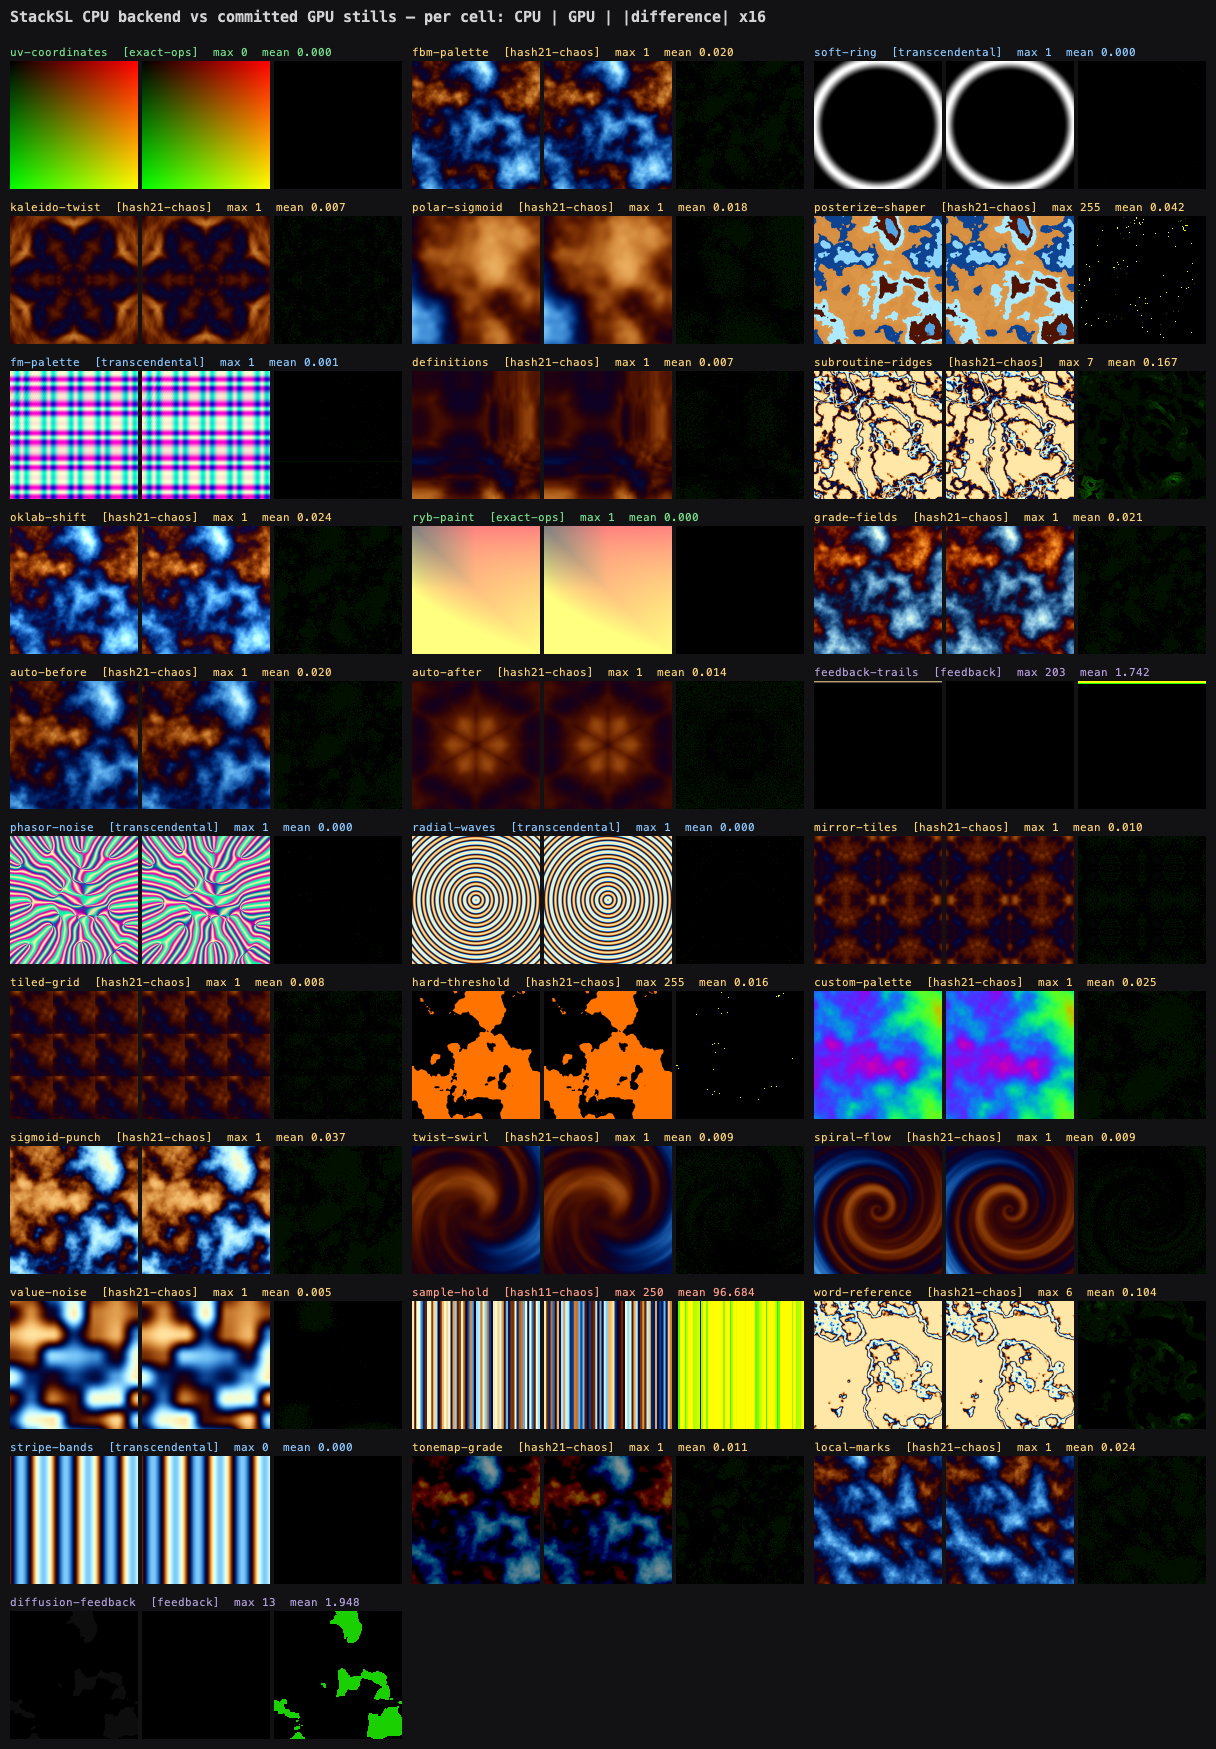
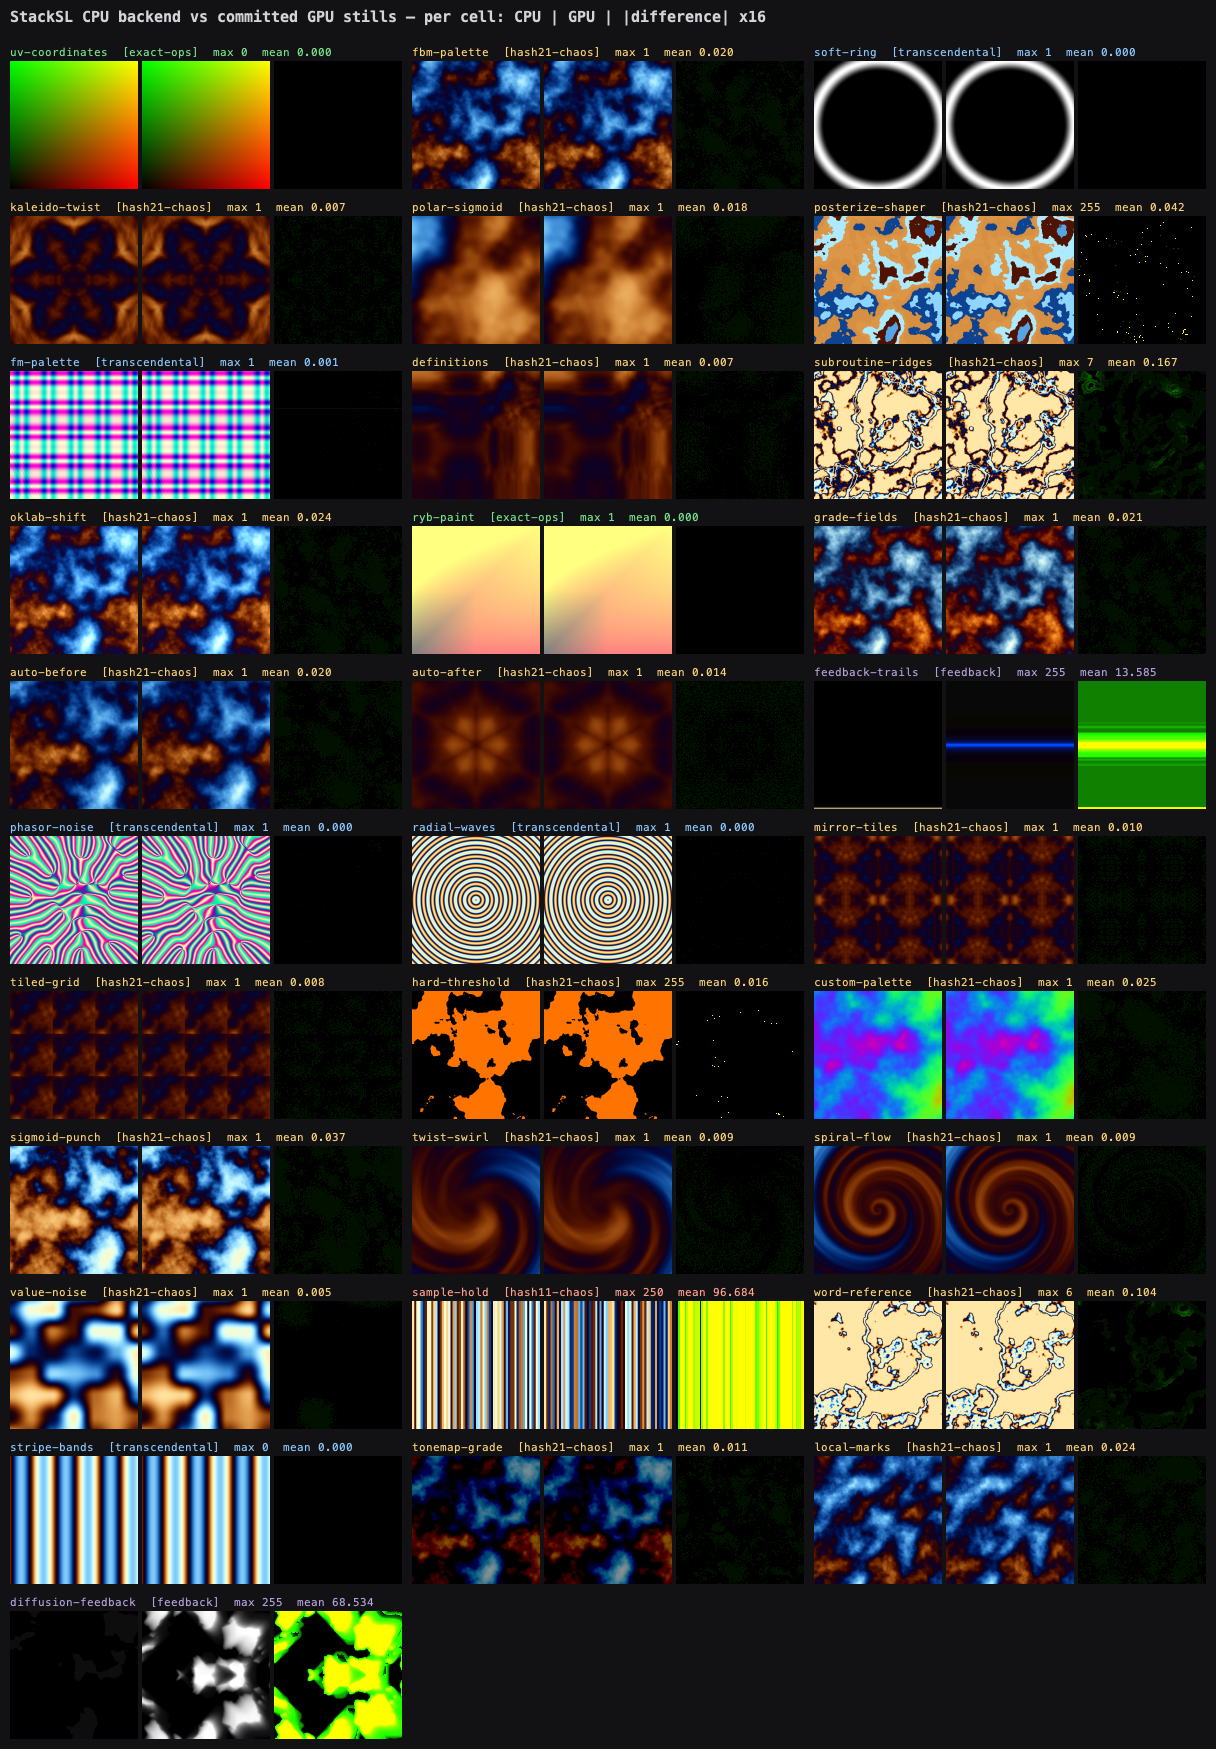
fix(stacksl): the CPU backend's raster convention was upside down too
Correcting the gallery figures surfaced this. `StackSLCpuGalleryTest` compares the CPU
backend against `public/docs/assets/stacksl/stacksl-<name>.png`, and once those stills
were rendered right side up, `uv saturate` — the case whose own test name says it "pins
the raster convention" — went from bit-identical to off by 255 at (0,0).

`FRAG_UV_ORIGIN_IS_TOP_LEFT` was `true`, derived in its KDoc from "the vertex shader sets
`gl_Position.y = fragUV.y * 2 - 1` and Vulkan's clip `y = -1` is the top of the
framebuffer". That derivation omits the negative-height viewport Y-flip every afield.four
render path applies (`Renderer`/`RenderTarget`/`RenderToTexture.setViewportAndScissor*`),
which maps clip `y = +1` to image row 0. So `fragUV.y = 1` is the top row. `f44227393`
established the same fact for the readback.

The constant also had no callers, despite its KDoc saying it existed so the convention was
"stated once and asserted". `renderFragment` now reads it.

Why the tests did not catch it: the oracle was wrong in the same direction. The committed
gallery PNGs were themselves inverted, so a flipped CPU raster matched them exactly, and
`GlslCoreTest` argued from precisely that — "settled empirically by 262144 bit-identical
pixels in StackSLCpuGalleryTest, a flip could not produce that". That reasoning is
circular: an oracle can only settle a convention it does not share. Both tests that
asserted the old direction are re-pointed, with the derivation corrected rather than the
[…]

diff --git a/src/jvmTest/kotlin/afield/stacksl/cpu/GlslCoreTest.kt b/src/jvmTest/kotlin/afield/stacksl/cpu/GlslCoreTest.kt
@@ -3,6 +3,7 @@ package afield.stacksl.cpu
 import kotlin.math.abs
 import kotlin.test.Test
 import kotlin.test.assertEquals
+import kotlin.test.assertFalse
 import kotlin.test.assertFailsWith
 import kotlin.test.assertTrue
 
@@ -306,15 +307,22 @@ class GlslCoreTest {
     }
 
     /**
-     * `fragUV` is sampled at PIXEL CENTRES and `y` grows downwards.
+     * `fragUV` is sampled at PIXEL CENTRES and `y` grows upwards.
      *
-     * The direction is not a matter of taste: the harness's fullscreen triangle sets
-     * `gl_Position.y = fragUV.y * 2 - 1`, and Vulkan's clip-space `y = -1` is the top of the
-     * framebuffer. It is also settled empirically by 262144 bit-identical pixels in
-     * `StackSLCpuGalleryTest` — a flip could not produce that.
+     * The direction is not a matter of taste, but the obvious derivation gets it backwards. The
+     * harness's fullscreen triangle sets `gl_Position.y = fragUV.y * 2 - 1` and Vulkan's clip
+     * `y = -1` is the top of the framebuffer — which suggests `fragUV.y` grows downwards, and is
+     * what this test asserted until 2026-08-30. It omits the **negative-height viewport Y-flip**
+     * every afield.four render path applies, which maps clip `y = +1` to image row 0. So
+     * `fragUV.y = 1` is the top row. See `f44227393`.
+     *
+     * The old empirical argument — "settled by 262144 bit-identical pixels in
+     * `StackSLCpuGalleryTest`, a flip could not produce that" — was circular: those committed
+     * PNGs were themselves inverted, so a flipped raster matched them exactly. An oracle can only
+     * settle a convention it does not share.
      */
     @Test
-    fun `fragUV runs from pixel centres with y growing downwards`() {
+    fun `fragUV runs from pixel centres with y growing upwards`() {
         val raster = StackSLCpu.renderFragment(
             """
             #version 450
@@ -324,13 +332,15 @@ class GlslCoreTest {
             """.trimIndent(),
             width = 4, height = 4, parallel = false
         )
-        assertTrue(StackSLCpu.FRAG_UV_ORIGIN_IS_TOP_LEFT)
+        assertFalse(StackSLCpu.FRAG_UV_ORIGIN_IS_TOP_LEFT)
+        // x is unaffected: u still grows left to right.
         assertEquals(0.125f, raster.at(0, 0, 0), 0f)
-        assertEquals(0.125f, raster.at(0, 0, 1), 0f)
         assertEquals(0.875f, raster.at(3, 3, 0), 0f)
-        assertEquals(0.875f, raster.at(3, 3, 1), 0f)
-        // y grows downwards: the green channel is larger at the bottom.
-        assertTrue(raster.at(0, 3, 1) > raster.at(0, 0, 1))
+        // v is flipped relative to PNG row order: row 0 is the top and carries v = 0.875.
+        assertEquals(0.875f, raster.at(0, 0, 1), 0f)
+        assertEquals(0.125f, raster.at(3, 3, 1), 0f)
+        // y grows upwards: the green channel is larger at the top.
+        assertTrue(raster.at(0, 0, 1) > raster.at(0, 3, 1))
     }
 
     // -----------------------------------------------------------------------------------------

diff --git a/src/jvmMain/kotlin/afield/stacksl/cpu/StackSLCpu.kt b/src/jvmMain/kotlin/afield/stacksl/cpu/StackSLCpu.kt
@@ -78,12 +78,23 @@ object StackSLCpu {
      * triangle.
      *
      * The vertex shader is `gl_Position = vec4(pos * 2.0 - 1.0, 0, 1); fragUV = pos;` with
-     * `pos` in `{0, 2}`. In Vulkan, clip-space `y = -1` is the **top** of the framebuffer, so
-     * `fragUV.y = 0` is the top row and `fragUV.y` grows downwards — the same direction a PNG's
-     * rows run. This constant exists so the convention is stated once and asserted, rather than
+     * `pos` in `{0, 2}`. It is tempting to stop at "in Vulkan, clip-space `y = -1` is the top of
+     * the framebuffer" and conclude `fragUV.y = 0` is the top row — that is what this constant
+     * said until 2026-08-30, and it is wrong. Every afield.four render path also applies the
+     * **negative-height viewport Y-flip** (`Renderer.setViewportAndScissor`,
+     * `RenderTarget.setViewportAndScissor`, `RenderToTexture.setViewportAndScissorArray`), which
+     * inverts that: clip `y = +1` maps to image row 0. So `fragUV.y = 1` is the **top** row and
+     * `fragUV.y` grows *upwards* as a PNG's rows run downwards. See `f44227393`, which established
+     * the same for the readback and fixed `TexturePreviewCache.capture`.
+     *
+     * This was not caught earlier because the oracle was wrong in the same direction: the
+     * committed gallery PNGs this backend is measured against were themselves inverted, so a
+     * flipped CPU raster agreed with them. Regenerating those figures is what surfaced it.
+     *
+     * [renderFragment] reads this, so the convention is stated once and honoured rather than
      * being an off-by-a-flip that only shows up as an upside-down image in one of 31 comparisons.
      */
-    const val FRAG_UV_ORIGIN_IS_TOP_LEFT = true
+    const val FRAG_UV_ORIGIN_IS_TOP_LEFT = false
 
     /**
      * The compile options a `{{ stack.auto.<slot> }}` expansion uses.
@@ -181,7 +192,9 @@ object StackSLCpu {
         val stream = if (parallel) rows.parallel() else rows
         stream.forEach { y ->
             val invocation = shader.newInvocation(uniforms, samplers)
-            val v = (y + 0.5f) / height
+            // Honour the one stated convention; see [FRAG_UV_ORIGIN_IS_TOP_LEFT].
+            val vTopDown = (y + 0.5f) / height
+            val v = if (FRAG_UV_ORIGIN_IS_TOP_LEFT) vTopDown else 1.0f - vTopDown
             for (x in 0 until width) {
                 invocation.setGlobal(fragUvName, GlslValue.vec2((x + 0.5f) / width, v))
                 perPixel?.invoke(x, y, invocation)

diff --git a/src/jvmTest/kotlin/afield/stacksl/cpu/StackSLCpuStillTemplateTest.kt b/src/jvmTest/kotlin/afield/stacksl/cpu/StackSLCpuStillTemplateTest.kt
@@ -56,8 +56,11 @@ class StackSLCpuStillTemplateTest {
     fun `renderStill produces a non-constant image`() {
         val raster = StackSLCpu.renderStill("uv saturate", dim = 32, parallel = false)
         assertEquals(32, raster.width)
+        // u grows left to right; v grows bottom to top, so the top row carries the large v.
+        // See StackSLCpu.FRAG_UV_ORIGIN_IS_TOP_LEFT.
         assertEquals(0.015625f, raster.at(0, 0, 0), 0f)
-        assertEquals(0.984375f, raster.at(31, 31, 1), 0f)
+        assertEquals(0.984375f, raster.at(0, 0, 1), 0f)
+        assertEquals(0.015625f, raster.at(31, 31, 1), 0f)
         assertTrue(raster.toArgb().toSet().size > 100, "expected a gradient, got a near-constant image")
     }
 }

diff --git a/dev_docs/assets/stacksl_cpu_backend/gallery_agreement.md b/dev_docs/assets/stacksl_cpu_backend/gallery_agreement.md
@@ -2,34 +2,34 @@
 
 | program | tier | mean levels | max levels | within 1 level | exact | worst pixel |
 | --- | --- | --- | --- | --- | --- | --- |
-| `ryb-paint` | exact-ops | 0.0000 | 1 | 100.0000% | 99.9985% | 9,64 |
+| `ryb-paint` | exact-ops | 0.0000 | 1 | 100.0000% | 99.9985% | 353,243 |
 | `uv-coordinates` | exact-ops | 0.0000 | 0 | 100.0000% | 100.0000% | 0,0 |
 | `soft-ring` | transcendental | 0.0001 | 1 | 100.0000% | 99.9939% | 105,30 |
-| `fm-palette` | transcendental | 0.0009 | 1 | 100.0000% | 99.7288% | 393,4 |
-| `phasor-noise` | transcendental | 0.0002 | 1 | 100.0000% | 99.9504% | 510,4 |
+| `fm-palette` | transcendental | 0.0009 | 1 | 100.0000% | 99.7288% | 425,5 |
+| `phasor-noise` | transcendental | 0.0002 | 1 | 100.0000% | 99.9504% | 364,1 |
 | `radial-waves` | transcendental | 0.0003 | 1 | 100.0000% | 99.8997% | 72,1 |
 | `stripe-bands` | transcendental | 0.0000 | 0 | 100.0000% | 100.0000% | 0,0 |
-| `posterize-shaper` | hash21-chaos | 0.0416 | 255 | 99.9546% | 99.9546% | 261,15 |
-| `hard-threshold` | hash21-chaos | 0.0155 | 255 | 99.9874% | 99.9874% | 180,6 |
-| `subroutine-ridges` | hash21-chaos | 0.1673 | 7 | 96.2620% | 75.3792% | 382,431 |
-| `word-reference` | hash21-chaos | 0.1043 | 6 | 98.0061% | 83.5403% | 424,465 |
-| `fbm-palette` | hash21-chaos | 0.0197 | 1 | 100.0000% | 94.2837% | 65,0 |
+| `posterize-shaper` | hash21-chaos | 0.0416 | 255 | 99.9546% | 99.9546% | 389,89 |
+| `hard-threshold` | hash21-chaos | 0.0155 | 255 | 99.9874% | 99.9874% | 330,78 |
+| `subroutine-ridges` | hash21-chaos | 0.1673 | 7 | 96.2620% | 75.3792% | 384,79 |
+| `word-reference` | hash21-chaos | 0.1043 | 6 | 98.0061% | 83.5403% | 424,46 |
+| `fbm-palette` | hash21-chaos | 0.0197 | 1 | 100.0000% | 94.2837% | 0,0 |
 | `kaleido-twist` | hash21-chaos | 0.0069 | 1 | 100.0000% | 97.9374% | 1,0 |
-| `polar-sigmoid` | hash21-chaos | 0.0181 | 1 | 100.0000% | 94.6846% | 37,0 |
-| `definitions` | hash21-chaos | 0.0066 | 1 | 100.0000% | 98.0347% | 247,0 |
-| `oklab-shift` | hash21-chaos | 0.0239 | 1 | 100.0000% | 93.2114% | 26,0 |
-| `grade-fields` | hash21-chaos | 0.0207 | 1 | 100.0000% | 94.1135% | 4,0 |
-| `auto-before` | hash21-chaos | 0.0205 | 1 | 100.0000% | 94.0910% | 34,0 |
+| `polar-sigmoid` | hash21-chaos | 0.0181 | 1 | 100.0000% | 94.6846% | 3,0 |
+| `definitions` | hash21-chaos | 0.0066 | 1 | 100.0000% | 98.0347% | 9,0 |
+| `oklab-shift` | hash21-chaos | 0.0239 | 1 | 100.0000% | 93.2114% | 58,0 |
+| `grade-fields` | hash21-chaos | 0.0207 | 1 | 100.0000% | 94.1135% | 30,0 |
+| `auto-before` | hash21-chaos | 0.0205 | 1 | 100.0000% | 94.0910% | 7,0 |
 | `auto-after` | hash21-chaos | 0.0141 | 1 | 100.0000% | 95.8382% | 11,0 |
 | `mirror-tiles` | hash21-chaos | 0.0100 | 1 | 100.0000% | 97.0215% | 21,0 |
-| `tiled-grid` | hash21-chaos | 0.0081 | 1 | 100.0000% | 97.5925% | 78,0 |
-| `custom-palette` | hash21-chaos | 0.0248 | 1 | 100.0000% | 92.8349% | 41,0 |
-| `sigmoid-punch` | hash21-chaos | 0.0372 | 1 | 100.0000% | 89.6923% | 32,0 |
-| `twist-swirl` | hash21-chaos | 0.0092 | 1 | 100.0000% | 97.2713% | 35,0 |
-| `spiral-flow` | hash21-chaos | 0.0090 | 1 | 100.0000% | 97.3076% | 31,0 |
-| `value-noise` | hash21-chaos | 0.0050 | 1 | 100.0000% | 98.5672% | 93,0 |
-| `tonemap-grade` | hash21-chaos | 0.0112 | 1 | 100.0000% | 96.6988% | 94,0 |
-| `local-marks` | hash21-chaos | 0.0239 | 1 | 100.0000% | 93.0767% | 66,0 |
+| `tiled-grid` | hash21-chaos | 0.0081 | 1 | 100.0000% | 97.5925% | 400,0 |
+| `custom-palette` | hash21-chaos | 0.0248 | 1 | 100.0000% | 92.8349% | 7,0 |
+| `sigmoid-punch` | hash21-chaos | 0.0372 | 1 | 100.0000% | 89.6923% | 11,0 |
+| `twist-swirl` | hash21-chaos | 0.0092 | 1 | 100.0000% | 97.2713% | 2,0 |
+| `spiral-flow` | hash21-chaos | 0.0090 | 1 | 100.0000% | 97.3076% | 50,0 |
+| `value-noise` | hash21-chaos | 0.0050 | 1 | 100.0000% | 98.5672% | 41,0 |
+| `tonemap-grade` | hash21-chaos | 0.0112 | 1 | 100.0000% | 96.6988% | 131,0 |
+| `local-marks` | hash21-chaos | 0.0239 | 1 | 100.0000% | 93.0767% | 6,0 |
 | `sample-hold` | hash11-chaos | 96.6836 | 250 | 1.7578% | 1.7578% | 367,0 |
-| `feedback-trails` | feedback | 1.7415 | 203 | 98.0469% | 98.0469% | 0,0 |
-| `diffusion-feedback` | feedback | 1.9479 | 13 | 85.0159% | 85.0159% | 247,0 |
+| `feedback-trails` | feedback | 13.5846 | 255 | 0.0000% | 0.0000% | 0,253 |
+| `diffusion-feedback` | feedback | 68.5338 | 255 | 35.1997% | 33.8081% | 416,87 |

diff --git a/dev_docs/STACKSL_CPU_BACKEND.md b/dev_docs/STACKSL_CPU_BACKEND.md
@@ -190,11 +190,27 @@ The backend is not *structurally* unable to do feedback — `CpuTexture2D` (bili
 ping-ponged in a `for` loop is the whole of `PingPongRenderToTexture`'s idea, and the demo document
 does exactly that for 72 frames. What is out of scope is the *comparison*.
 
-**Incidental finding, not fixed here:** `stacksl-feedback-trails.png` and
-`stacksl-diffusion-feedback.png` are **entirely black** — 0 non-black pixels out of 262144 each.
-`StackSLGalleryHarness.renderGallery` renders every entry through `fragmentTemplate()`, which
-declares no `source` sampler, so a feedback program cannot compile there and no still is ever
-captured. The two committed files are stale.
+**Incidental finding, since fixed:** `stacksl-feedback-trails.png` and
+`stacksl-diffusion-feedback.png` were **entirely black** — 0 non-black pixels out of 262144 each.
+`StackSLGalleryHarness.renderGallery` rendered every entry through `fragmentTemplate()`, which
+declares no `source` sampler, so a feedback program could not compile there.
+
+Two details of that first write-up were wrong. The files were not *stale*: `git log --follow` shows
+both were black in their first and only commit, so no good version ever existed. And the shader was
+not rejected where you would expect — `StackSLCompiler.compile` is called with
+`sampleTextures = listOf("source")`, so `require(compiled.ok)` PASSED and glslang rejected the
+assembled shader later, off the capture path. The target then simply kept its clear color and the
+readback *succeeded*, which is why the harness logged `wrote … (2337 bytes)` and no `runCatching`
+ever fired. An all-black readback is a silent success, not a swallowed exception.
+
+`renderGallery` now routes feedback entries through the same ping-pong path as their mp4 and
+captures frame `ANIM_FRAMES / 2` of the identical sweep, so the still is a real mid-clip frame.
+
+That fix is also why the `feedback` rows of `gallery_agreement.md` are now large (mean 13.6 and
+68.5 levels, up from 1.7 and 1.9). The old small numbers were not agreement: `renderStill` has no
+feedback history, so a near-black CPU still was being compared against a *black* GPU still. Two
+black images agree perfectly and mean nothing. The comparison remains out of scope, but the number
+now says so honestly.
 
 ## The picture
 
